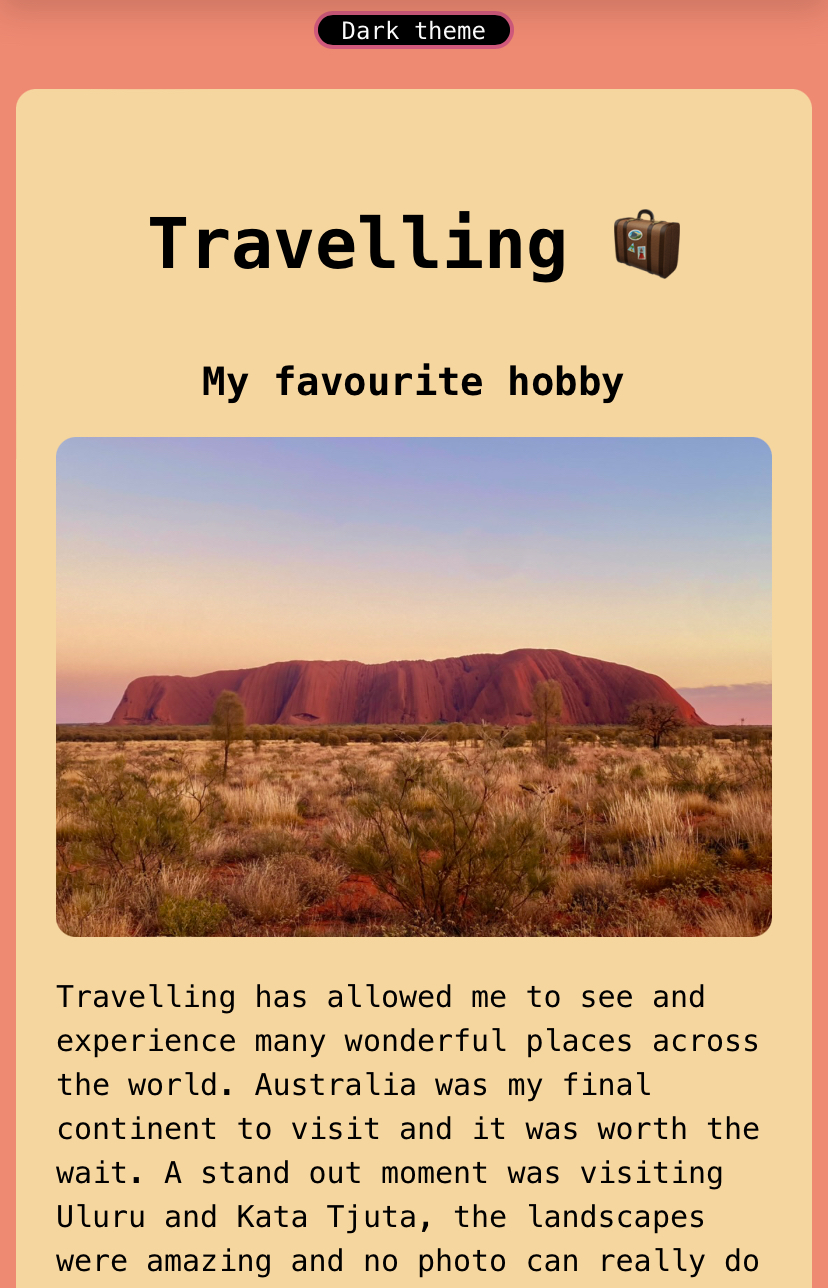
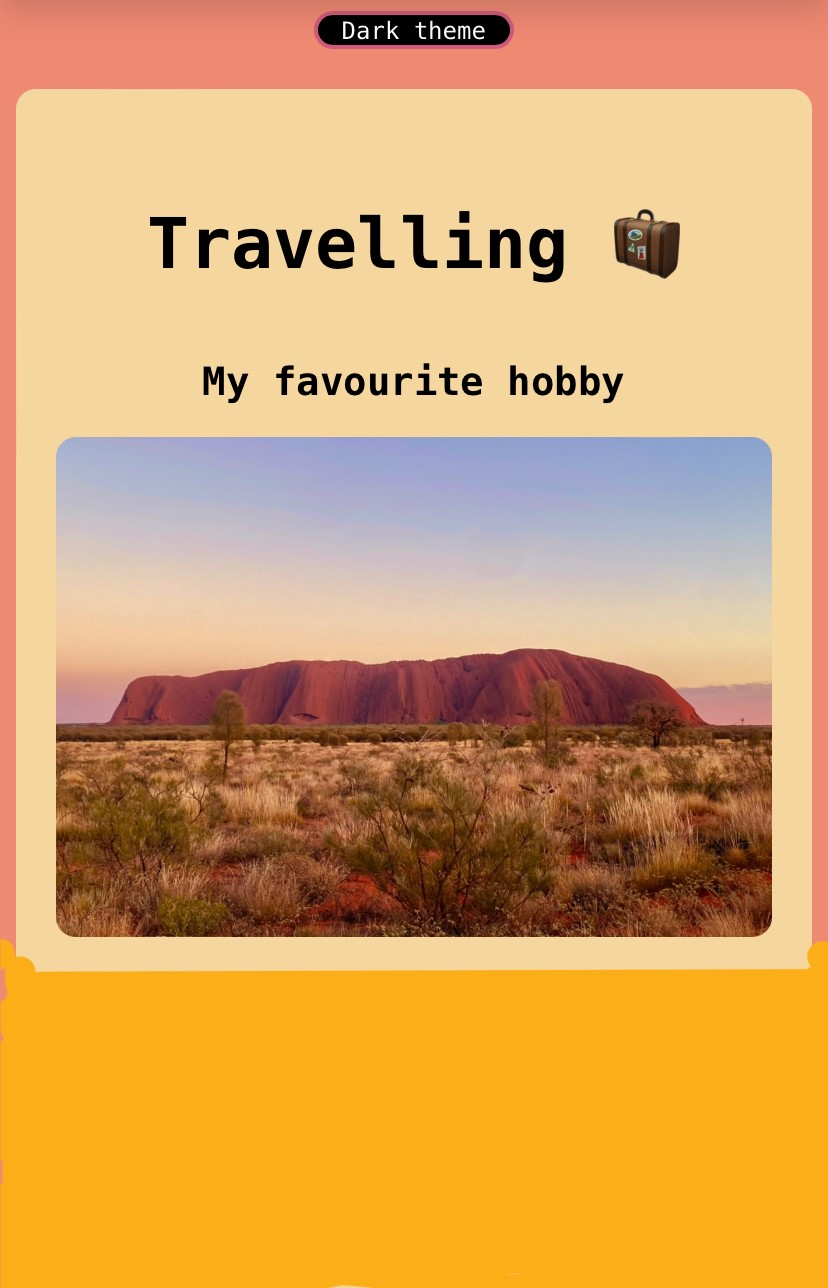
Changed CSS style file and added HTML file container

Changed region(s): [[0.0, 0.7143, 1.0, 1.0]]

diff --git a/index.html b/index.html
@@ -2,31 +2,82 @@
 <html lang="en">
 
 <head>
-    <meta charset="UTF-8" />
-    <meta http-equiv="X-UA-Compatible" content="IE=edge" />
-    <meta name="viewport" content="width=device-width, initial-scale=1.0" />
-    <link href="https://cdn.jsdelivr.net/npm/bootstrap@5.0.2/dist/css/bootstrap.min.css" rel="stylesheet"
-        integrity="sha384-EVSTQN3/azprG1Anm3QDgpJLIm9Nao0Yz1ztcQTwFspd3yD65VohhpuuCOmLASjC" crossorigin="anonymous">
+  <meta charset="UTF-8" />
+  <meta http-equiv="X-UA-Compatible" content="IE=edge" />
+  <meta name="viewport" content="width=device-width, initial-scale=1.0" />
+  <link href="https://cdn.jsdelivr.net/npm/bootstrap@5.0.2/dist/css/bootstrap.min.css" rel="stylesheet"
+    integrity="sha384-EVSTQN3/azprG1Anm3QDgpJLIm9Nao0Yz1ztcQTwFspd3yD65VohhpuuCOmLASjC" crossorigin="anonymous">
 
 
-    <link href="https://cdn.jsdelivr.net/npm/bootstrap@5.3.3/dist/css/bootstrap.min.css" rel="stylesheet"
-        integrity="sha384-QWTKZyjpPEjISv5WaRU9OFeRpok6YctnYmDr5pNlyT2bRjXh0JMhjY6hW+ALEwIH" crossorigin="anonymous">
-    <script src="https://cdn.jsdelivr.net/npm/bootstrap@5.3.3/dist/js/bootstrap.bundle.min.js"
-        integrity="sha384-YvpcrYf0tY3lHB60NNkmXc5s9fDVZLESaAA55NDzOxhy9GkcIdslK1eN7N6jIeHz"
-        crossorigin="anonymous"></script>
+  <link href="https://cdn.jsdelivr.net/npm/bootstrap@5.3.3/dist/css/bootstrap.min.css" rel="stylesheet"
+    integrity="sha384-QWTKZyjpPEjISv5WaRU9OFeRpok6YctnYmDr5pNlyT2bRjXh0JMhjY6hW+ALEwIH" crossorigin="anonymous">
+  <script src="https://cdn.jsdelivr.net/npm/bootstrap@5.3.3/dist/js/bootstrap.bundle.min.js"
+    integrity="sha384-YvpcrYf0tY3lHB60NNkmXc5s9fDVZLESaAA55NDzOxhy9GkcIdslK1eN7N6jIeHz"
+    crossorigin="anonymous"></script>
 
-    <title>Iryna Skupinska</title>
-    <link rel="stylesheet" href="style.css" />
+  <title>Iryna Skupinska</title>
+  <link rel="stylesheet" href="style.css" />
 </head>
 
 <body>
-    <h2>👋 Hi I am</h2>
-    <h1>Iryna Skupinska</h1>
-    <h3>🇺🇦 Front-end developer, based in Ukraine</h3>
-    <div class="navigation-links">
-        <a href="about.html#contact" class="contact-link">Contact me</a>
-        <a href="about.html" class="about-link">About me</a>
+  <h2 class="text-center">👋 Hi I am</h2>
+  <h1 class="text-center">Iryna Skupinska</h1>
+  <h3 class="text-center">🇺🇦 Front-end developer, based in Ukraine</h3>
+  <div class="navigation-links mb-5">
+    <a href="about.html#contact" class="primary-link">Contact me</a>
+    <a href="about.html" class="secondary-link">About me</a>
+  </div>
+  <div class="row">
+    <div class="col-6">
+      <img src="images/travel.jpeg" class="img-fluid rounded" />
     </div>
+    <div class="col-6">
+      <h2 class="mb-3">Traveling</h2>
+      <p>
+        Lorem ipsum dolor sit amet, consectetur adipisicing elit. Numquam
+        aperiam provident tempora? Cumque adipisci, non dolorem quia, odit qui
+        alias veniam excepturi rem dolor fugit dignissimos, sed voluptatum
+        blanditiis harum.
+      </p>
+      <div class="mt-5">
+        <a href="#" class="primary-link">Launch travel</a>
+      </div>
+    </div>
+  </div>
+  <div class="row">
+    <div class="col-6">
+      <img src="images/weather.jpeg" class="img-fluid rounded" />
+    </div>
+    <div class="col-6">
+      <h2 class="mb-3">Weather App</h2>
+      <p>
+        Lorem ipsum dolor sit amet, consectetur adipisicing elit. Numquam
+        aperiam provident tempora? Cumque adipisci, non dolorem quia, odit qui
+        alias veniam excepturi rem dolor fugit dignissimos, sed voluptatum
+        blanditiis harum.
+      </p>
+      <div class="mt-5">
+        <a href="#" class="primary-link">Launch travel</a>
+      </div>
+    </div>
+  </div>
+  <div class="row">
+    <div class="col-6">
+      <img src="images/baking.jpeg" class="img-fluid rounded" />
+    </div>
+    <div class="col-6">
+      <h2 class="mb-3">Baking</h2>
+      <p>
+        Lorem ipsum dolor sit amet, consectetur adipisicing elit. Numquam
+        aperiam provident tempora? Cumque adipisci, non dolorem quia, odit qui
+        alias veniam excepturi rem dolor fugit dignissimos, sed voluptatum
+        blanditiis harum.
+      </p>
+      <div class="mt-5">
+        <a href="#" class="primary-link">Launch travel</a>
+      </div>
+    </div>
+  </div>
 </body>
 
 </html>

diff --git a/style.css b/style.css
@@ -7,7 +7,6 @@
 h1,
 h2,
 h3 {
-  text-align: center;
   margin: 0;
 }
 
@@ -27,7 +26,6 @@ h3 {
 p {
   font-size: 18px;
   line-height: 1.5;
-  text-align: center;
 }
 
 .navigation-links {
@@ -38,19 +36,23 @@ p {
 
 .navigation-links a {
   margin: 20px;
+}
+
+.primary-link {
   border-radius: 4px;
   padding: 20px 15px;
   text-decoration: none;
   text-transform: capitalize;
-}
-
-.contact-link {
   background: var(--primary-color);
   box-shadow: var(--box-shadow);
   color: white;
 }
 
-.about-link {
+.secondary-link {
+  border-radius: 4px;
+  padding: 20px 15px;
+  text-decoration: none;
+  text-transform: capitalize;
   color: var(--primary-color);
   border: 1px solid var(--primary-color);
 }
